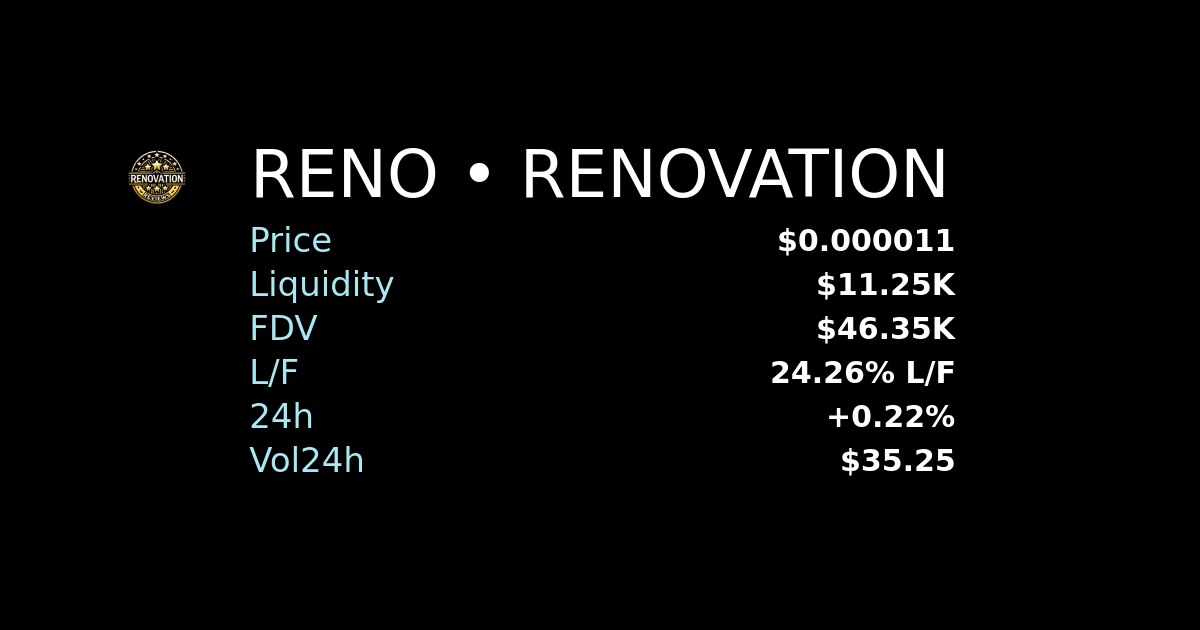
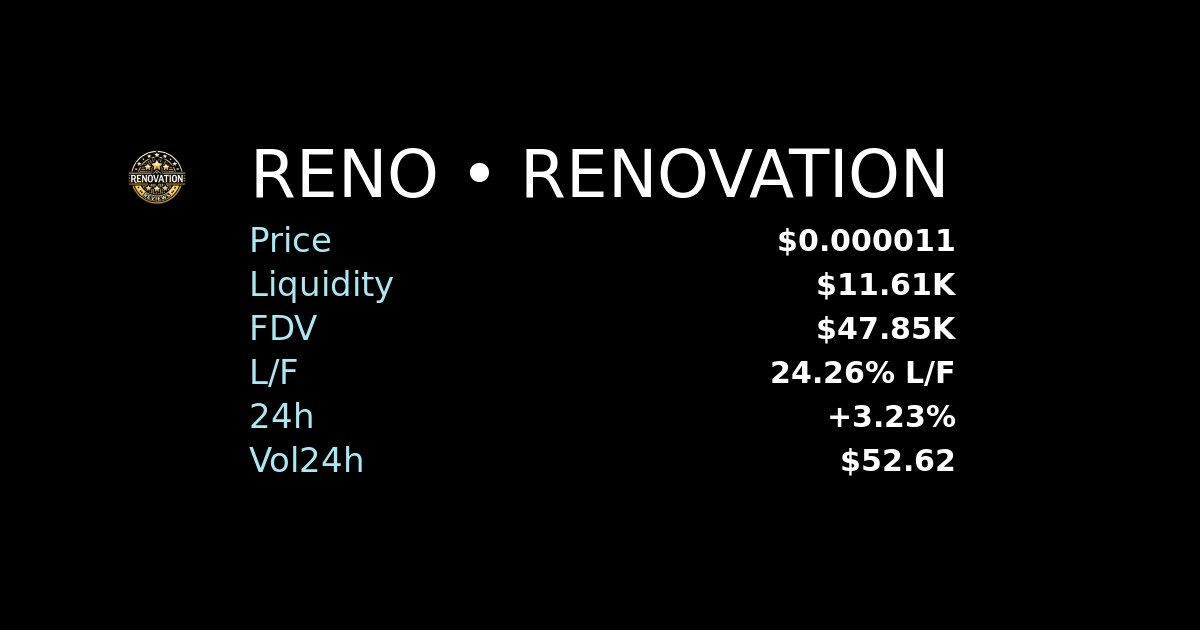
chore: update sitemap & token pages

diff --git a/token/HBoNJ5v8g71s2boRivrHnfSB5MVPLDHHyVjruPfhGkvL/index.html b/token/HBoNJ5v8g71s2boRivrHnfSB5MVPLDHHyVjruPfhGkvL/index.html
@@ -4,14 +4,14 @@
     <meta charset="utf-8" />
     <meta name="viewport" content="width=device-width,initial-scale=1" />
     <title>PURPE on Solana</title>
-    <meta name="description" content="Purple Pepe • Price: $0.000044 • Liquidity: $1.11M" />
+    <meta name="description" content="Purple Pepe • Price: $0.000058 • Liquidity: $1.30M" />
     <meta name="author" content="builders-toronto" />
     <meta name="keywords" content="solana, memecoin, bonk, wif, dog, inu, pepe, cat, meme, ponk, samo, purry, purr, kitty, meow, woof, frog, snek, toad, bob, dino, monke, monkey, ape, corgi, floki, elon" />
 
     <!-- OG -->
     <meta property="og:type" content="website" />
     <meta property="og:title" content="PURPE on Solana" />
-    <meta property="og:description" content="Purple Pepe • Price: $0.000044 • Liquidity: $1.11M" />
+    <meta property="og:description" content="Purple Pepe • Price: $0.000058 • Liquidity: $1.30M" />
     <meta property="og:url" content="https://fdv.lol/token/HBoNJ5v8g71s2boRivrHnfSB5MVPLDHHyVjruPfhGkvL" />
     <meta property="og:image" content="https://fdv.lol/token/HBoNJ5v8g71s2boRivrHnfSB5MVPLDHHyVjruPfhGkvL/og.jpg" />
     <meta property="og:image:width" content="1200" />
@@ -21,13 +21,70 @@
     <!-- Twitter -->
     <meta name="twitter:card" content="summary_large_image" />
     <meta name="twitter:title" content="PURPE on Solana" />
-    <meta name="twitter:description" content="Purple Pepe • Price: $0.000044 • Liquidity: $1.11M" />
+    <meta name="twitter:description" content="Purple Pepe • Price: $0.000058 • Liquidity: $1.30M" />
     <meta name="twitter:image" content="https://fdv.lol/token/HBoNJ5v8g71s2boRivrHnfSB5MVPLDHHyVjruPfhGkvL/og.jpg" />
 
     <link rel="icon" type="image/png" href="/src/assets/images/icons/fdv.lol.ico" />
     <link rel="preconnect" href="https://fonts.googleapis.com">
     <link href="https://fonts.googleapis.com/css2?family=Inter:wght@400;600&display=swap" rel="stylesheet">
     <link rel="stylesheet" href="/src/styles/global.css" />
+
+    <script type="application/ld+json">
+    {
+      "@context": "https://schema.org",
+      "@type": "WebSite",
+      "name": "PURPE on Solana",
+      "url": "https://fdv.lol/token/HBoNJ5v8g71s2boRivrHnfSB5MVPLDHHyVjruPfhGkvL",
+      "description": "Purple Pepe • Price: $0.000058 • Liquidity: $1.30M",
+      "keywords": [
+        "solana",
+        "memecoin",
+        "bonk",
+        "wif",
+        "dog",
+        "inu",
+        "pepe",
+        "cat",
+        "meme",
+        "ponk",
+        "samo",
+        "purry",
+        "purr",
+        "kitty",
+        "meow",
+        "woof",
+        "frog",
+        "snek",
+        "toad",
+        "bob",
+        "dino",
+        "monke",
+        "monkey",
+        "ape",
+        "corgi",
+        "floki",
+        "elon"
+      ],
+      "publisher": {
+        "@type": "Organization",
+        "name": "builders-toronto",
+        "url": "https://github.com/builders-toronto/fdv.lol",
+        "logo": {
+          "@type": "ImageObject",
+          "url": "https://fdv.lol/src/assets/images/fdv.lol.png"
+        },
+        "sameAs": [
+          "https://t.me/fdvlol",
+          "https://github.com/builders-toronto/fdv.lol"
+        ]
+      },
+      "potentialAction": {
+        "@type": "SearchAction",
+        "target": "https://fdv.lol/token/{search_term_string}",
+        "query-input": "required name=search_term_string"
+      }
+    }
+    </script>
   </head>
   <body>
     <div id="loader" class="loader-overlay" aria-live="polite" aria-busy="true" hidden>
@@ -67,9 +124,7 @@
       <div id="cards" class="cards"></div>
     </main>
     <footer>
-      <p>Cached in your browser for 90s. Not financial advice.</p>
-      <p class="important"><a href="https://github.com/builders-toronto/fdv.lol" target="_blank" rel="noopener">Source</a></p>
-      <p><span class="joinCta">Join us</span> on <a href="https://t.me/fdvlol" target="_blank" rel="noopener">Telegram</a></p>
+      <p>Cached in your browser for 90s. Not financial advice.</p><p class="important"><a href="https://github.com/builders-toronto/fdv.lol" target="_blank" rel="noopener">Source</a></p><p><span class="joinCta">Join us</span> on <a href="https://t.me/fdvlol" target="_blank" rel="noopener">Telegram</a></p>
     </footer>
     <script>window.__BOOT_PROFILE_CANONICAL__="https://fdv.lol/token/HBoNJ5v8g71s2boRivrHnfSB5MVPLDHHyVjruPfhGkvL";</script>
     <script type="module" src="/main.js"></script>

diff --git a/token/BrEiwuaLCuG7nG9bMuDg9ihp6sisvD6DCqNjrudHxmzg/index.html b/token/BrEiwuaLCuG7nG9bMuDg9ihp6sisvD6DCqNjrudHxmzg/index.html
@@ -4,14 +4,14 @@
     <meta charset="utf-8" />
     <meta name="viewport" content="width=device-width,initial-scale=1" />
     <title>RENO on Solana</title>
-    <meta name="description" content="RENOVATION • Price: $0.000011 • Liquidity: $11.25K" />
+    <meta name="description" content="RENOVATION • Price: $0.000011 • Liquidity: $11.61K" />
     <meta name="author" content="builders-toronto" />
     <meta name="keywords" content="solana, memecoin, bonk, wif, dog, inu, pepe, cat, meme, ponk, samo, purry, purr, kitty, meow, woof, frog, snek, toad, bob, dino, monke, monkey, ape, corgi, floki, elon" />
 
     <!-- OG -->
     <meta property="og:type" content="website" />
     <meta property="og:title" content="RENO on Solana" />
-    <meta property="og:description" content="RENOVATION • Price: $0.000011 • Liquidity: $11.25K" />
+    <meta property="og:description" content="RENOVATION • Price: $0.000011 • Liquidity: $11.61K" />
     <meta property="og:url" content="https://fdv.lol/token/BrEiwuaLCuG7nG9bMuDg9ihp6sisvD6DCqNjrudHxmzg" />
     <meta property="og:image" content="https://fdv.lol/token/BrEiwuaLCuG7nG9bMuDg9ihp6sisvD6DCqNjrudHxmzg/og.jpg" />
     <meta property="og:image:width" content="1200" />
@@ -21,13 +21,70 @@
     <!-- Twitter -->
     <meta name="twitter:card" content="summary_large_image" />
     <meta name="twitter:title" content="RENO on Solana" />
-    <meta name="twitter:description" content="RENOVATION • Price: $0.000011 • Liquidity: $11.25K" />
+    <meta name="twitter:description" content="RENOVATION • Price: $0.000011 • Liquidity: $11.61K" />
     <meta name="twitter:image" content="https://fdv.lol/token/BrEiwuaLCuG7nG9bMuDg9ihp6sisvD6DCqNjrudHxmzg/og.jpg" />
 
     <link rel="icon" type="image/png" href="/src/assets/images/icons/fdv.lol.ico" />
     <link rel="preconnect" href="https://fonts.googleapis.com">
     <link href="https://fonts.googleapis.com/css2?family=Inter:wght@400;600&display=swap" rel="stylesheet">
     <link rel="stylesheet" href="/src/styles/global.css" />
+
+    <script type="application/ld+json">
+    {
+      "@context": "https://schema.org",
+      "@type": "WebSite",
+      "name": "RENO on Solana",
+      "url": "https://fdv.lol/token/BrEiwuaLCuG7nG9bMuDg9ihp6sisvD6DCqNjrudHxmzg",
+      "description": "RENOVATION • Price: $0.000011 • Liquidity: $11.61K",
+      "keywords": [
+        "solana",
+        "memecoin",
+        "bonk",
+        "wif",
+        "dog",
+        "inu",
+        "pepe",
+        "cat",
+        "meme",
+        "ponk",
+        "samo",
+        "purry",
+        "purr",
+        "kitty",
+        "meow",
+        "woof",
+        "frog",
+        "snek",
+        "toad",
+        "bob",
+        "dino",
+        "monke",
+        "monkey",
+        "ape",
+        "corgi",
+        "floki",
+        "elon"
+      ],
+      "publisher": {
+        "@type": "Organization",
+        "name": "builders-toronto",
+        "url": "https://github.com/builders-toronto/fdv.lol",
+        "logo": {
+          "@type": "ImageObject",
+          "url": "https://fdv.lol/src/assets/images/fdv.lol.png"
+        },
+        "sameAs": [
+          "https://t.me/fdvlol",
+          "https://github.com/builders-toronto/fdv.lol"
+        ]
+      },
+      "potentialAction": {
+        "@type": "SearchAction",
+        "target": "https://fdv.lol/token/{search_term_string}",
+        "query-input": "required name=search_term_string"
+      }
+    }
+    </script>
   </head>
   <body>
     <div id="loader" class="loader-overlay" aria-live="polite" aria-busy="true" hidden>
@@ -67,9 +124,7 @@
       <div id="cards" class="cards"></div>
     </main>
     <footer>
-      <p>Cached in your browser for 90s. Not financial advice.</p>
-      <p class="important"><a href="https://github.com/builders-toronto/fdv.lol" target="_blank" rel="noopener">Source</a></p>
-      <p><span class="joinCta">Join us</span> on <a href="https://t.me/fdvlol" target="_blank" rel="noopener">Telegram</a></p>
+      <p>Cached in your browser for 90s. Not financial advice.</p><p class="important"><a href="https://github.com/builders-toronto/fdv.lol" target="_blank" rel="noopener">Source</a></p><p><span class="joinCta">Join us</span> on <a href="https://t.me/fdvlol" target="_blank" rel="noopener">Telegram</a></p>
     </footer>
     <script>window.__BOOT_PROFILE_CANONICAL__="https://fdv.lol/token/BrEiwuaLCuG7nG9bMuDg9ihp6sisvD6DCqNjrudHxmzg";</script>
     <script type="module" src="/main.js"></script>
